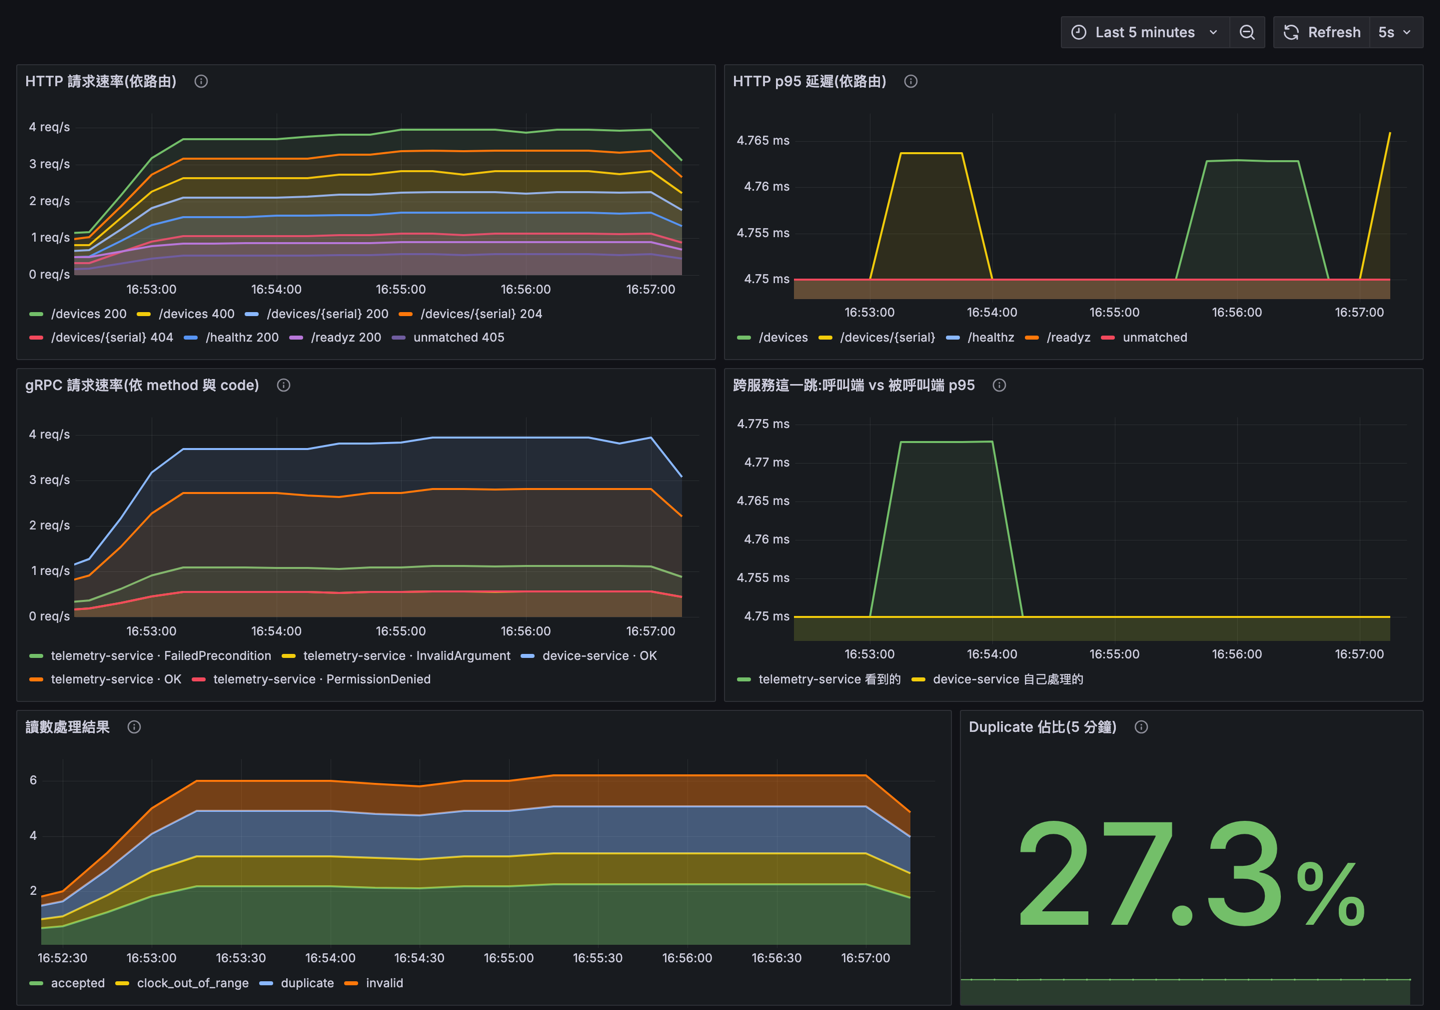
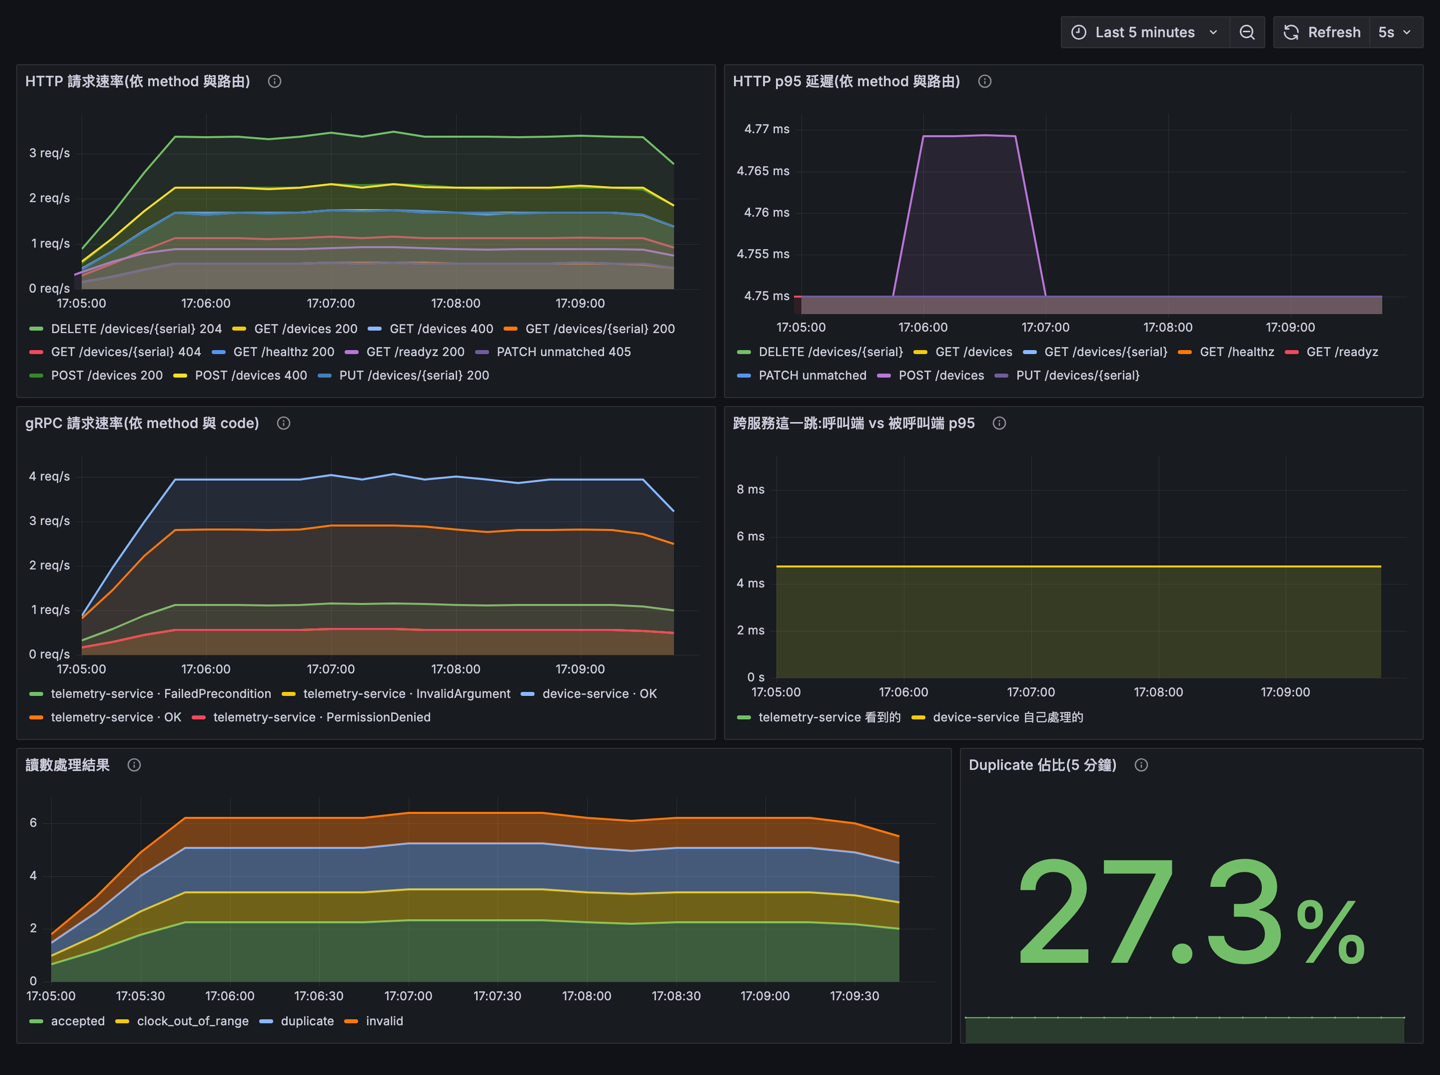
fix(grafana): HTTP 那兩張圖要分 method,不然 GET 與 POST 混在一起
query 原本是 sum by (route, status),把 method 加總掉了 —— 圖例上的
「/devices 200」其實是 GET /devices(列表)與 POST /devices(註冊)疊在
一起,兩個完全不同的操作。延遲那張同樣的問題。

改成 sum by (method, route, status),標題與 panel 說明跟著更新。多出來的
series 讓圖例變三行,所以兩張的高度從 8 調到 9。

順帶讓截圖裡多了一個有用的例子:PATCH unmatched 405 —— smoke test 打的
未路由動詞,正好示範 route 的 unmatched 是什麼時候出現的。

diff --git a/README.md b/README.md
@@ -174,7 +174,9 @@ make load    # 持續打流量 —— 沒有流量的話圖上就是一條平的
 
 六張圖,一半一半。
 
-前三張是任何服務都該有的 RED 指標:HTTP 請求速率、HTTP p95 延遲、gRPC 請求速率(依錯誤碼分)。
+前三張是任何服務都該有的 RED 指標:HTTP 請求速率、HTTP p95 延遲、gRPC 請求速率。
+
+HTTP 那兩張同時依 **method 與 route** 分 —— `GET /devices`(列表)與 `POST /devices`(註冊)是兩件完全不同的事,合在一起看沒有意義。route 用的是路由樣板,所以 `/devices/SN-0001` 與 `/devices/SN-0002` 仍然算同一條線;打不到任何路由的請求(截圖裡的 `PATCH unmatched 405`)則一律歸為 `unmatched`。
 
 後三張是這個平台才有的:
 
